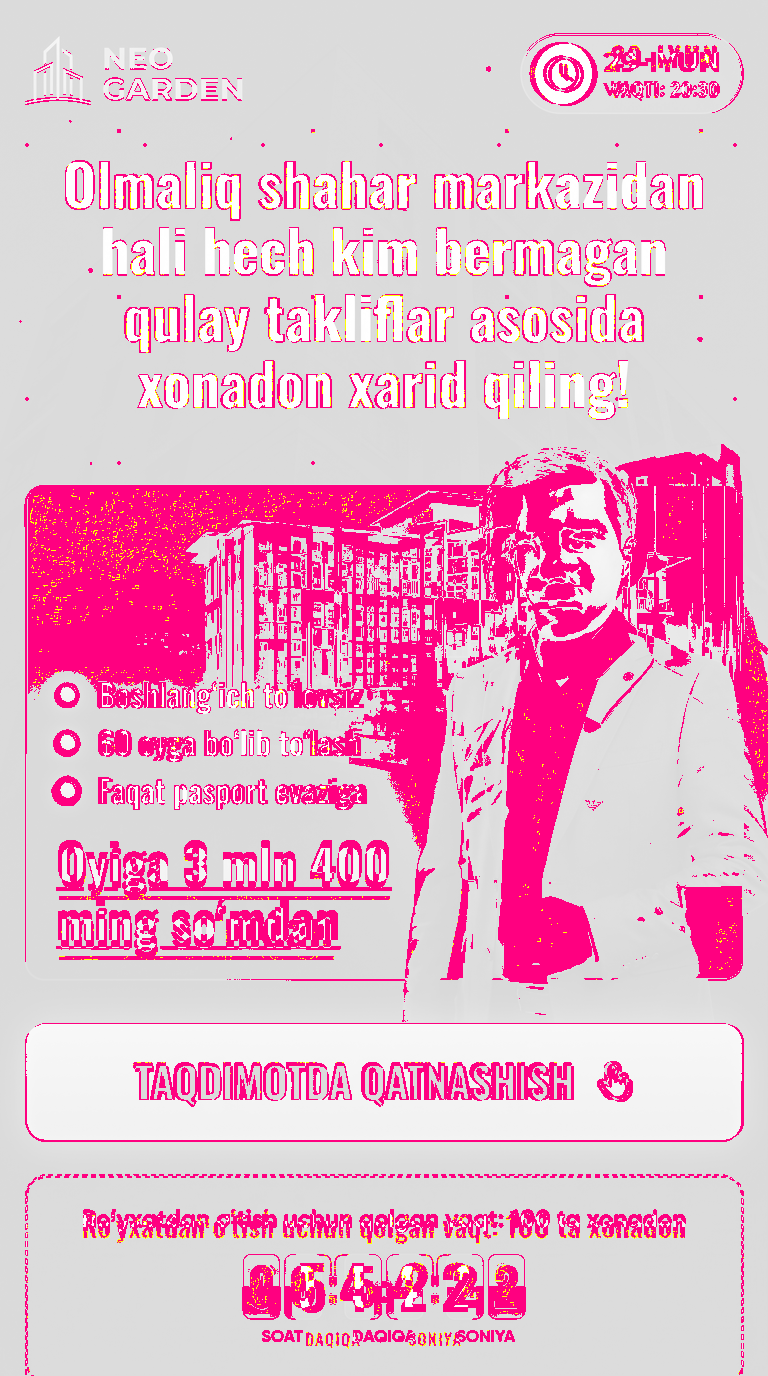
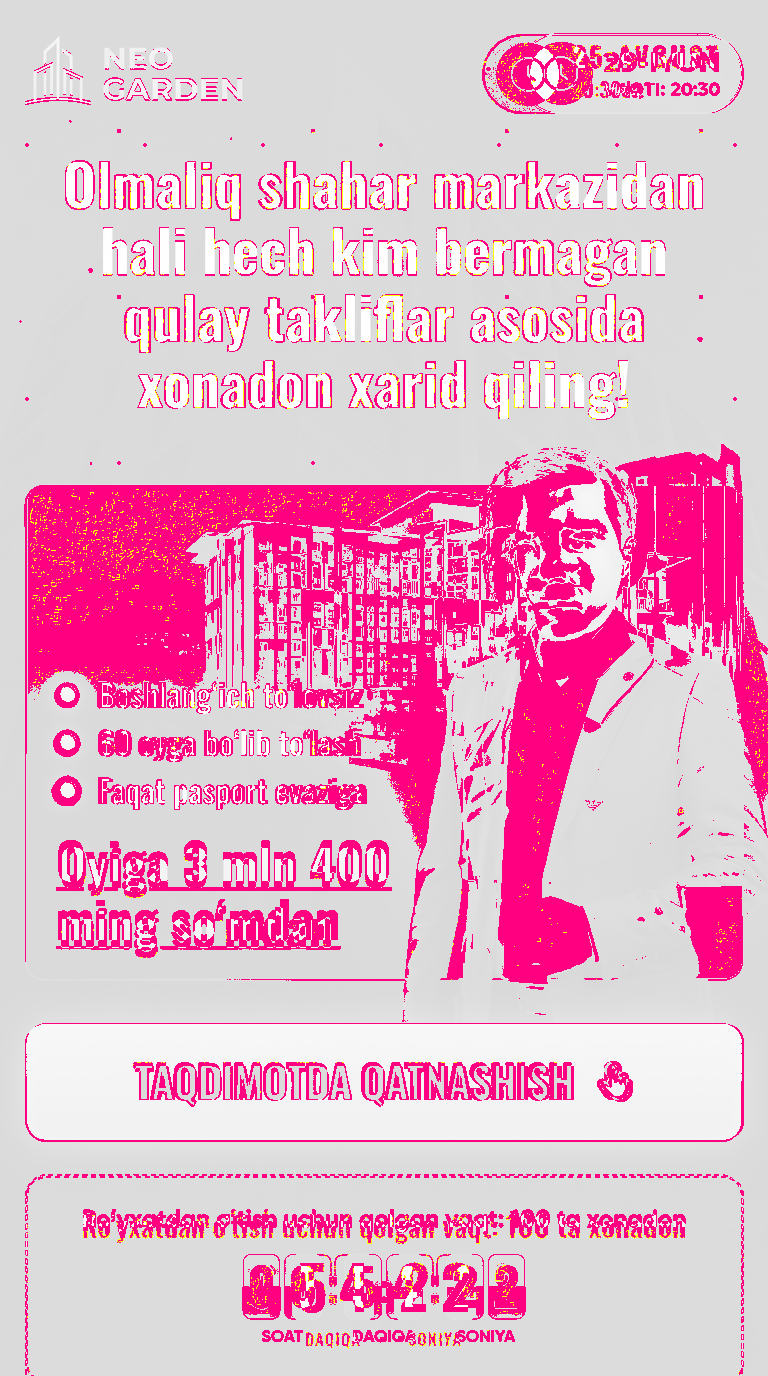
something

Changed region(s): [[0.625, 0.0312, 0.9375, 0.0938]]

diff --git a/index.html b/index.html
@@ -194,13 +194,6 @@ body{
   letter-spacing:calc(.1 * var(--u));
   color:var(--gold-text);
 }
-.price span{
-  display:inline;
-  text-decoration:underline;
-  text-decoration-thickness:calc(2 * var(--u));
-  text-underline-offset:calc(3.5 * var(--u));
-  text-decoration-skip-ink:none;
-}
 
 /* -------------------------------------------------------------------- cta */
 .cta{
@@ -290,8 +283,8 @@ body{
     <div class="badge">
[1 lines of base64/hex data omitted]
       <span>
-        <i class="d">29-IYUN</i>
-        <i class="t">VAQTI: 20:30</i>
+        <i class="d">25-AVGUST</i>
+        <i class="t">20:30da</i>
       </span>
     </div>
   </header>
@@ -319,12 +312,12 @@ body{
         <li>60 oyga bo‘lib to‘lash</li>
         <li>Faqat pasport evaziga</li>
       </ul>
-      <p class="price"><span>Oyiga 3 mln 400</span><br><span>ming so‘mdan</span></p>
+      <p class="price">Oyiga 3 mln 400<br>ming so‘mdan</p>
     </div>
   </section>
 
   <!-- CTA destination: single place to change. Point at a Telegram bot, tel:, or a form. -->
-  <a class="cta" href="#" id="cta">
+  <a class="cta" href="https://t.me/+0rSkxYYgNc9hOWMy" id="cta">
     TAQDIMOTDA QATNASHISH
     <svg viewBox="0 0 24 24" fill="none" aria-hidden="true">
       <path d="M9 11.4V5.6a1.85 1.85 0 1 1 3.7 0v5.1" stroke="currentColor" stroke-width="1.7" stroke-linecap="round" stroke-linejoin="round"/>

diff --git a/README.md b/README.md
@@ -15,10 +15,10 @@ python3 -m http.server 8000     # or serve it
 | HTTP requests | **5** | — |
 | index.html (gzipped) | 6.8 KB | 14 KB |
 | Font subset (woff2) | 8.2 KB | 8.5 KB |
-| building-card.avif | 7.5 KB | 45 KB |
+| building-card.avif | 15.4 KB | 45 KB |
 | person.avif | 14.0 KB | 40 KB |
 | logo.avif | 4.5 KB | 6 KB |
-| **Total over the wire** | **41.1 KB** | 110 KB |
+| **Total over the wire** | **49.1 KB** | 110 KB |
 | Render-blocking requests | **0** | 0 |
 | CLS | **0** | 0 |
 | LCP | ~70–100 ms (local) | — |
@@ -72,15 +72,15 @@ runner-up (Saira Condensed) managed 73 %. Rerun with `node tools/match-glyphs.mj
 
 | region | diff | meaningful? |
 |---|---|---|
-| header | 5.9 % | yes |
+| header | 8.9 % | **no** — badge shows your date, mockup shows 29-IYUN |
 | h1 | 7.0 % | yes |
 | cta | 9.3 % | yes |
 | timer | 12.9 % | **no** — shows MM:SS, mockup shows HH:MM:SS |
-| card | 32.1 % | **no** — different building *and* different person |
-| **overall** | **17.8 %** | |
+| card | 39.8 % | **no** — different building, different person, no price underline |
+| **overall** | **21.7 %** | |
 
-Only the header, h1 and CTA numbers still measure fidelity, and they're at the floor:
-what's left there is text antialiasing, which never reaches zero on a thresholded diff.
+Only the h1 and CTA numbers still measure fidelity, and they're at the floor: what's
+left there is text antialiasing, which never reaches zero on a thresholded diff.
 
 The card and timer no longer match the mockup **by request** — the card carries your
 real `building.jpeg` and the supplied person photo, and the countdown dropped its hours
@@ -93,19 +93,20 @@ column. Their diff percentages measure those decisions, not build quality.
    white dress shirt, hands clasped*. You chose to keep the supplied asset, so the card
    cannot pixel-match there. Dropping the correct suit-jacket cutout into
    `person.avif` and re-running `tools/make-assets.py` would close it.
-2. **The card shows `building.jpeg`, graded to night.** You asked for your real render
-   instead of the mockup's. It's a daylight photo of a *different* building, so the card
-   cannot match `screen.png` there. Two things were needed to make it work in a dark
-   composition — see *Note on the card image* below.
-   To go back to the mockup's building, restore `build_plate()` to crop from
-   `screen.png` (it's in git-less history, but the crop was `CARD` x `PLATE_H`).
+2. **The card shows `building.jpeg`, used as shot.** You asked for your real render
+   instead of the mockup's, with no recolouring. It's a daylight photo of a *different*
+   building, so the card cannot match `screen.png` there — that's the whole 42 %.
 3. **The page ends at the countdown.** `screen.png` is cut off mid-box at y=1376; you
    chose to close the dashed box cleanly and stop there. Conveniently the design is
    exactly 688 CSS px tall, so the box closes right at the fold.
 4. **The countdown shows minutes and seconds only.** You asked to drop the hours
    column, so the mockup's `SOAT` group is gone. Minutes accumulate rather than rolling
    into a hidden hours field, so a 90-minute deadline reads `90:00`, not `30:00`.
-5. **Logo and clock are images, not SVG.** They're bespoke artwork that exists only
+5. **Badge, price and CTA carry your content, not the mockup's.** The badge reads
+   `25-AVGUST / 20:30da` (the mockup's `29-IYUN / VAQTI: 20:30`), the price lost its
+   underline, and the CTA points at your Telegram invite. `VAQTI:` was dropped because
+   `VAQTI: 20:30da` doubles the time marker — say the word to put the label back.
+6. **Logo and clock are images, not SVG.** They're bespoke artwork that exists only
    inside `screen.png`; a hand-drawn SVG never converged (the header diff was 10.5 %
    with my traced version, 5.9 % with the real artwork). A logo is an asset, not text,
    so this is also the more conventional representation. It carries `alt="Neo Garden"`,
@@ -115,8 +116,9 @@ column. Their diff percentages measure those decisions, not build quality.
 
 | what | where |
 |---|---|
-| **CTA destination** | `index.html`, `<a class="cta" href="#">` — point it at a Telegram bot, `tel:`, or a form. It's a placeholder; the mockup gave no target. |
+| **Event date / time** | `index.html`, `<i class="d">25-AVGUST</i>` and `<i class="t">20:30da</i>`. Hardcoded text. **If you change it, re-run `python3 tools/subset-font.py`** — the font carries only the glyphs the page uses, so a new letter renders as tofu until you do. |
 | **Countdown length** | `index.html`, `DURATION_SECONDS = 120` (one line). Currently a plain 2-minute timer that starts on load. |
+| CTA destination | `index.html`, `<a class="cta" href="https://t.me/+0rSkxYYgNc9hOWMy">`. Opens in the same tab; add `target="_blank" rel="noopener"` if you'd rather keep the page open behind it. |
 | Make the timer survive reloads | store `endsAt` in `localStorage` instead of recomputing it — two lines, in the same IIFE. |
 
 The countdown renders from an absolute deadline rather than decrementing a counter, so
@@ -134,7 +136,7 @@ All regenerable; none of it ships.
 
 | command | what it does |
 |---|---|
-| `python3 tools/make-assets.py` | Builds the card image from `building.jpeg` (night grade + composite) and the person cutout, and encodes AVIF+WebP. |
+| `python3 tools/make-assets.py` | Crops `building.jpeg` to the card's aspect and exports the person cutout; encodes AVIF+WebP for both. |
 | `python3 tools/make-icons.py` | Extracts the logo lockup + clock glyph from `screen.png`, keys them to transparency, writes `assets/img/logo.*` and inlines the clock. **Re-run after editing the header markup.** |
 | `python3 tools/subset-font.py` | Downloads Oswald and subsets it to the glyphs `index.html` actually uses. |
 | `node tools/verify.mjs` | Pixel diff + byte budgets + LCP/CLS. The gate. Writes `.work/render.png` and `.work/diff.png`. |
@@ -147,28 +149,30 @@ Requires Python with Pillow + fontTools, and Node with the three dev deps in
 
 ### Note on the card image
 
-`building.jpeg` is a 3:4 portrait of a tall tower; the card is a 2.17:1 strip. Two
-problems had to be solved, both in `tools/make-assets.py`:
+`building.jpeg` is used as shot — `build_plate()` crops it to the card's 2.17:1 aspect,
+resizes, and stops. No colour grade, no recomposition.
 
-**Framing.** Cropping a band out of the portrait shows four floors and reads as a
-low-rise — it loses the building. Instead the whole tower is scaled to the plate height
-and composited onto a backdrop made from a heavily blurred, stretched copy of the
-source. Deriving the backdrop from the source rather than inventing a gradient means
-the sky and ground colours match exactly, so the seam doesn't show. `TOWER_X` biases it
-left of centre because the person covers the plate from x≈444.
+Two earlier passes were tried and thrown away, in case they come up again:
 
-**Grade.** `night_grade()` drops a per-channel gain and gamma over the image to darken
-and cool it, then adds a warm pass back into bright pixels. The sky has to be excluded
-from that warm pass explicitly (it's masked by blue-minus-red): it's the brightest
-thing in the frame, so a plain luminance threshold turns it into a sunset instead of a
-night sky. `floor_fade()` then darkens the lower plate so the white bullets and gold
-price keep their contrast.
+- **Grading it to night** to match the mockup's lit-at-night tower. A daylight render
+  has *unlit* windows and no global grade can turn them on, so it landed on a murky
+  blue hour rather than the mockup's look.
+- **Compositing the whole tower** onto a blurred backdrop from the same photo, so all
+  ten floors fit the wide strip. In true colour the blurred backdrop reads as an
+  obvious smear next to the sharp building.
 
-Honest limitation: a daylight render has *unlit* windows, and no global grade can turn
-them on. The result reads as blue hour rather than the mockup's lit-at-night tower.
-Getting actual lit windows needs either a night render of the building or per-window
-compositing. All the constants (`TOWER_BOX`, `TOWER_X`, `TOWER_H`, `NIGHT_GAIN`,
-`GLOW_COLOR`, `FADE_START`) are at the top of the file if you want to retune it.
+The crop shows the roofline and upper floors. Fitting the whole tower into a 2.17:1
+strip isn't possible from a 3:4 portrait without either squashing it or inventing
+background, so the crop is the honest option. `SOURCE_CROP` at the top of
+`tools/make-assets.py` reframes it.
+
+**Contrast caveat.** The white bullets sit over the photo, and its bright cream facade
+runs right behind them. Contrast comes from two places, neither of which touches the
+image: the card's mask fades the photo out into the dark card background from 26 %
+down, and the bullets carry a soft `text-shadow`. Worst-case backdrop measures about
+**3:1** against white — fine for the 15.5 px bold-ish weight in practice, but under
+WCAG AA's 4.5:1 for body text. Deepen the `.card__media img` mask stops if you want
+strict AA; it costs building visibility.
 
 ### Note on the person
 
